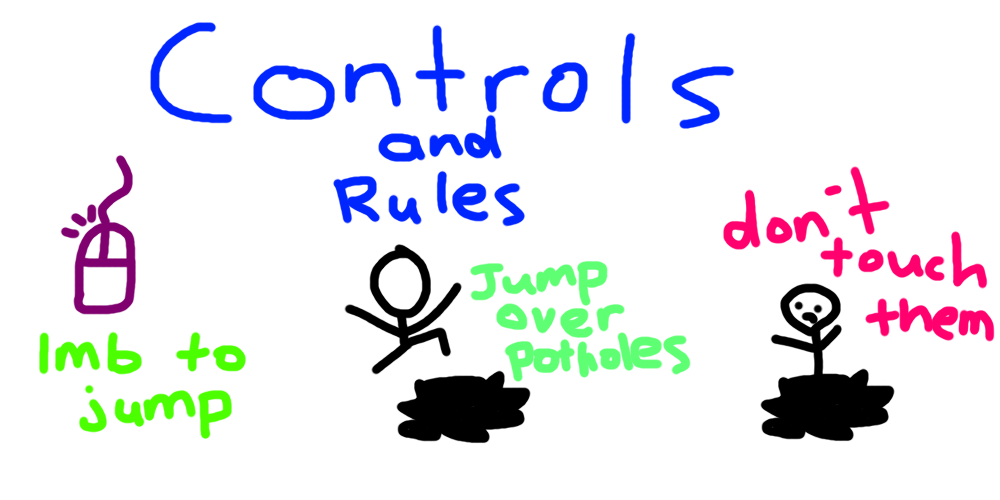
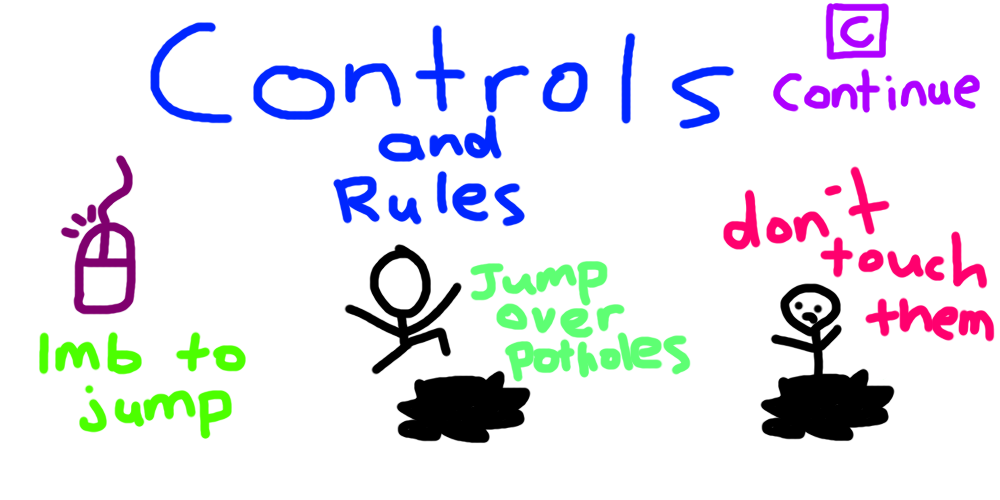
raft

Changed region(s): [[0.775, 0.15, 0.992, 0.24], [0.806, 0.0, 0.899, 0.12]]

diff --git a/sketch.js b/sketch.js
@@ -13,6 +13,10 @@ var x2;
 let gameState = 'start';
 let scrollSpeed;
 let score = 0;
+let buttonBlackChoose
+let buttonYellowChoose
+let buttonBlueChoose
+let button
 
 function preload() {
   potholeImage = loadImage("assets/pothole0001.png")
@@ -20,6 +24,9 @@ function preload() {
   bussin = loadAnimation("assets/bus0001.png", "assets/bus0002.png")
   startMenu = loadImage("assets/gamestart.png")
   endMenu = loadImage("assets/gameend.png")
+  selectMenu = loadImage("assets/game-shoeselect.png")
+  creditsMenu = loadImage("assets/credits.png")
+  controlsMenu = loadImage("assets/game-controls.png")
 }
 
 function setup() {
@@ -27,6 +34,11 @@ function setup() {
   bozo = createSprite(100, 400);
   bozo.addAnimation('running', 'assets/running0001.png', 'assets/running0002.png');
   bozo.addAnimation('jumping', 'assets/jumping0001.png');
+  bozo.addAnimation('runningYellow', 'assets/running-yellow-0001.png', 'assets/running-yellow-0002.png')
+  bozo.addAnimation('jumpingYellow', 'assets/jumping-yellow-0001.png')
+  bozo.addAnimation('runningBlue', 'assets/running-blue-0001.png', 'assets/running-blue-0002.png');
+  bozo.addAnimation('jumpingBlue', 'assets/jumping-blue-0001.png');
+
   bozo.setCollider('rectangle', 0, 0, 100, 150);
   ground = createSprite(100, 450);
   ground.addAnimation('normal', 'assets/small_platform0001.png', 'assets/small_platform0003.png');
@@ -43,25 +55,76 @@ function draw() {
     case 'start':
       gameStart()
       break;
+    case 'controls':
+      gameControls()
+      break;
+    case 'selection':
+      gameSelection()
+      break;
     case 'play':
       gamePlay()
       break;
+    case 'playYellow':
+      gamePlayYellow()
+      break;
+    case 'playBlue':
+      gamePlayBlue()
+      break;
     case 'end':
       gameEnd()
+      break;
+    case 'credits':
+      gameCredits()
       break;
   }
 }
 
 function keyPressed() {
-  if (gameState === 'start' || gameState === 'end') {
+  if (gameState === 'start') {
     if (key === 'G' || key === 'g') {
-      gameState = 'play';
+      gameState = 'controls';
+    }
+  }
+  if(gameState === 'controls') {
+    if(key === 'C' || key === 'c'){
+      gameState = 'selection'
+    }
+  }
+
+  if (gameState === 'end') {
+    if (key === 'G' || key === 'g') {
+      gameState = 'selection';
+    } else if (key === 'c' || key === 'C')
+      gameState = 'credits';
+  }
+
+  if (gameState === 'credits'){
+    if (key === 'Q' || key === 'q'){
+      gameState = 'start';
+    }
+  }
+
+  if (gameState === 'selection') {
+    if (key === 'Q' || key === 'q') {
+      gameState = 'play'
+      bozo.position.x = 100
+      bozo.position.y = 400
+      score = 0
+    } else if (key === 'W' || key === 'w') {
+      gameState = 'playYellow'
+      bozo.position.x = 100
+      bozo.position.y = 400
+      score = 0
+    } else if (key === 'E' || key === 'e') {
+      gameState = 'playBlue'
       bozo.position.x = 100
       bozo.position.y = 400
       score = 0
     }
   }
 }
+
+
 
 function backgroundMoving() {
   scrollSpeed = (10 + 3 * score / 100)
@@ -79,7 +142,10 @@ function backgroundMoving() {
 
 function gameStart() {
   image(startMenu, 0, 0)
-  scale(100);
+}
+
+function gameSelection() {
+  image(selectMenu, 0, 0)
 }
 
 function gamePlay() {
@@ -94,6 +160,66 @@ function gamePlay() {
   }
   if (mouseWentDown(LEFT)) {
     jump()
+  }
+  drawSprites();
+  for (var i = 0; i < potholesGroup.length; i++)
+    if (potholesGroup[i].position.x < bozo.position.x - width / 2) {
+      potholesGroup[i].remove()
+    }
+  if (bozo.overlap(potholesGroup)) {
+    gameEnd()
+  }
+  spawnPotholes()
+  push()
+  textSize(20)
+  fill(255, 255, 255)
+  text("Score: " + score, 30, 50);
+  pop()
+}
+
+function gamePlayYellow() {
+
+  backgroundMoving()
+  score = score + Math.round(getFrameRate() / 60);
+  animation(bussin, 850, 175)
+  bozo.collide(sky)
+  bozo.velocity.y += GRAVITY;
+  if (bozo.collide(ground)) {
+    bozo.velocity.y = 0;
+    bozo.changeAnimation('runningYellow');
+  }
+  if (mouseWentDown(LEFT)) {
+    jumpYellow()
+  }
+  drawSprites();
+  for (var i = 0; i < potholesGroup.length; i++)
+    if (potholesGroup[i].position.x < bozo.position.x - width / 2) {
+      potholesGroup[i].remove()
+    }
+  if (bozo.overlap(potholesGroup)) {
+    gameEnd()
+  }
+  spawnPotholes()
+  push()
+  textSize(20)
+  fill(255, 255, 255)
+  text("Score: " + score, 30, 50);
+  pop()
+}
+
+function gamePlayBlue() {
+
+  backgroundMoving()
+  score = score + Math.round(getFrameRate() / 60);
+  animation(bussin, 850, 175)
+  bozo.collide(sky)
+  bozo.velocity.y += GRAVITY;
+  if (bozo.collide(ground)) {
+    bozo.velocity.y = 0;
+    bozo.changeAnimation('runningBlue');
+  }
+  if (mouseWentDown(LEFT)) {
+    jumpBlue()
   }
   drawSprites();
   for (var i = 0; i < potholesGroup.length; i++)
@@ -140,4 +266,28 @@ function jump() {
     bozo.animation.rewind();
     bozo.velocity.y = -JUMP;
   }
+}
+
+function jumpYellow() {
+  if (bozo.position.y >= 338.5) {
+    bozo.changeAnimation("jumpingYellow");
+    bozo.animation.rewind();
+    bozo.velocity.y = -JUMP;
+  }
+}
+
+function jumpBlue() {
+  if (bozo.position.y >= 338.5) {
+    bozo.changeAnimation("jumpingBlue");
+    bozo.animation.rewind();
+    bozo.velocity.y = -JUMP;
+  }
+}
+
+function gameCredits() {
+  image(creditsMenu, 0, 0)
+}
+
+function gameControls() {
+  image(controlsMenu, 0, 0)
 }

diff --git a/artist-statement.html b/artist-statement.html
@@ -1,0 +1,40 @@
+<!DOCTYPE html>
+<html lang="en" dir="ltr">
+
+<head>
+  <meta charset="utf-8">
+  <title>Artist Statement</title>
+  <link rel="stylesheet" href="style.css">
+  <link rel="icon" href="favicon.ico">
+  <link rel="preconnect" href="https://fonts.googleapis.com">
+  <link rel="preconnect" href="https://fonts.gstatic.com" crossorigin>
+  <link href="https://fonts.googleapis.com/css2?family=Merriweather&family=Montserrat&family=Sacramento&display=swap" rel="stylesheet">
+</head>
+
+<body>
+
+
+<img class="bottom-img"src="assets/artist-statement-bottom.png" alt="road.png">
+
+  <h1>Artist Statement</h1>
+
+
+
+
+
+    <p id="statement" class="col-lg-12">
+      In the game I'm Late! you play as a student that is late for the bus, chasing after in hopes to reach your class.
+      The game is a simplistic sidescroller where you dodge potholes on the road. I chose to create all my assets for this project in ms paint because I wanted my game
+      to give off a sense of nostalgia, linking back to the style of flash games you would play on websites as a kid on school computers.
+      I decided on a simplistic theme of having the player be a stick figure with the playing field painted in strong static colors to give a sense of timelessness.
+    </p>
+
+
+    <a class="backbutton" href="index.html">Back to Game</a>
+
+
+
+
+</body>
+
+</html>

diff --git a/index.html b/index.html
@@ -3,17 +3,48 @@
 
 <head>
   <script src="p5.js"></script>
+
+  <!-- p5, p5play -->
   <script src="https://rawgit.com/molleindustria/p5.play/master/lib/p5.play.js"></script>
   <script src="p5.sound.min.js"></script>
+
+  <!-- bootstrap, css -->
+  <link href="https://cdn.jsdelivr.net/npm/bootstrap@5.1.3/dist/css/bootstrap.min.css" rel="stylesheet" integrity="sha384-1BmE4kWBq78iYhFldvKuhfTAU6auU8tT94WrHftjDbrCEXSU1oBoqyl2QvZ6jIW3" crossorigin="anonymous">
   <link rel="stylesheet" href="style.css">
+
+  <!-- favicon -->
+  <link rel="icon" href="favicon.ico">
+
+  <!-- fonts -->
+  <link rel="preconnect" href="https://fonts.googleapis.com">
+  <link rel="preconnect" href="https://fonts.gstatic.com" crossorigin>
+  <link href="https://fonts.googleapis.com/css2?family=Merriweather&family=Montserrat&family=Sacramento&display=swap" rel="stylesheet">
+
+  <!-- misc -->
   <meta charset="utf-8">
+  <title>I'm Late!</title>
 </head>
 
 
 <body>
-  <div class="gameee">
-    <script src="sketch.js"></script>
+<div class="row">
+  <div class="container">
+      <script class="gamething" src="sketch.js"></script>
+      <a class="statement-button btn btn-success" href="artist-statement.html">Artist Statement</a>
   </div>
+</div>
+
+
+
+
+
+
+
+
+
+
+
+
 
 </body>
 

diff --git a/style.css b/style.css
@@ -1,5 +1,82 @@
-body{
-  margin: 0;
+
+/* main screen */
+
+
+
+.container{
   text-align: center;
+  padding: 40px;
+
+}
+
+main{
+  /* text-align: center; */
+  background-color: #79DAE8;
+  display: relative;
+
+}
+
+
+html{
+  background-color: #79DAE8;
+  text-align: center;
+}
+
+div{
   background-color: #79DAE8;
 }
+
+
+
+/* statement screen */
+
+h1 {
+  font-size: 6rem;
+  margin: 50px auto 0 auto;
+  font-family: 'Sacramento', cursive;
+  color: #1d2ade;
+  line-height: 2;
+}
+
+
+/* #image{
+  position: absolute;
+  scale: 10;
+} */
+
+
+
+#statement{
+    font-family: 'Montserrat', sans-serif;
+    color:#2b2b2b;
+    font-size:24px;
+    font-weight:bold;
+    margin: auto 35%;
+    position: relative;
+  color: #303030;
+}
+
+.backbutton {
+background:    #ff9100;
+border-radius: 11px;
+margin: 50px;
+padding:       20px 45px;
+color:         #ffffff;
+display:       inline-block;
+font:          normal bold 26px/1 "Open Sans", sans-serif;
+text-align:    center;
+bottom: 110px;
+left: 825px;
+text-decoration: none;
+}
+
+.bottom-img {
+    position:fixed;
+    bottom:0;
+    left:0;
+    width: 100%;
+    height:20%;
+}
+
+
+/* shoe selection button css */
